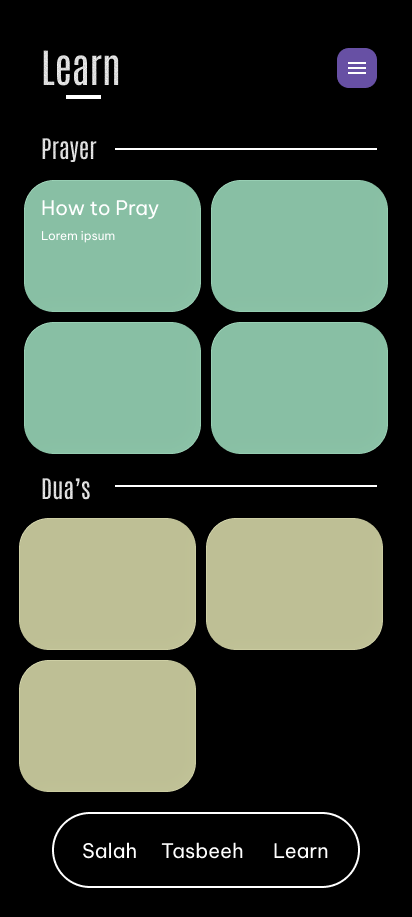
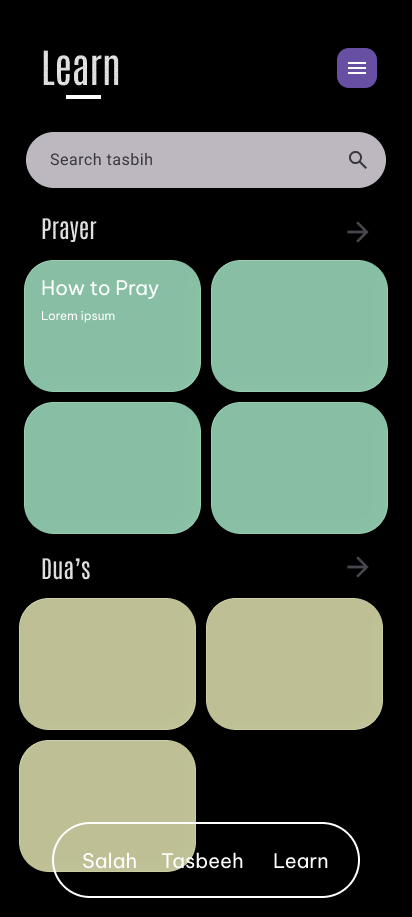
UI Refinements: Rakat picker width, Tasbeeh cards styling and color palette, AppBar offset and padding

diff --git a/app/src/main/java/com/kaizen/khushu/ui/screens/tasbeeh/TasbeehColors.kt b/app/src/main/java/com/kaizen/khushu/ui/screens/tasbeeh/TasbeehColors.kt
@@ -2,11 +2,12 @@ package com.kaizen.khushu.ui.screens.tasbeeh
 
 import androidx.compose.ui.graphics.Color
 
-val TasbeehPastelColors = listOf(
-    Color(0xFFC4A882), // warm tan
-    Color(0xFF9BBF9E), // sage green
-    Color(0xFF7AAFB8), // muted teal
-    Color(0xFF8DA3B8), // blue-grey
-    Color(0xFFA898B8), // mauve/lilac
-    Color(0xFFB89898), // dusty rose
-)
+val TasbeehPastelColors =
+        listOf(
+                Color(0xFFD4AF37), // Metallic Gold - classic, rich contrast
+                Color(0xFF2E5A4E), // Deep Emerald - serene, culturally resonant
+                Color(0xFF4A5568), // Steel Slate - neutral, highly structural
+                Color(0xFF6B4C7A), // Muted Amethyst - deep, reflective
+                Color(0xFF8B5A4B), // Burnished Terracotta - warm, grounding
+                Color(0xFF3B4D61) // Twilight Blue - calming, endless depth
+        )

diff --git a/app/src/main/java/com/kaizen/khushu/ui/screens/tasbeeh/TasbeehScreen.kt b/app/src/main/java/com/kaizen/khushu/ui/screens/tasbeeh/TasbeehScreen.kt
@@ -94,7 +94,7 @@ fun TasbeehScreen(
                 SearchBar(
                     query = query,
                     onQueryChange = { query = it },
-                    modifier = Modifier.padding(bottom = 8.dp),
+                    modifier = Modifier.padding(top = 16.dp, bottom = 8.dp),
                 )
             }
 
@@ -247,9 +247,11 @@ private fun CollectionCard(
             if (!collection.title.isNullOrBlank()) {
                 Text(
                     text = collection.title,
-                    style = MaterialTheme.typography.bodyMedium,
+                    style = MaterialTheme.typography.titleMedium,
                     fontWeight = FontWeight.Bold,
                     color = Color.White,
+                    maxLines = 1,
+                    overflow = TextOverflow.Ellipsis,
                 )
                 Spacer(Modifier.height(6.dp))
             }
@@ -262,16 +264,17 @@ private fun CollectionCard(
                 ) {
                     Text(
                         text = item.name,
-                        style = MaterialTheme.typography.bodySmall,
+                        style = MaterialTheme.typography.bodyLarge,
                         color = Color.White,
                         maxLines = 1,
                         overflow = TextOverflow.Ellipsis,
-                        modifier = Modifier.weight(1f),
+                        modifier = Modifier.weight(1f).padding(end = 4.dp),
                     )
                     Text(
                         text = item.targetCount.toString(),
-                        style = MaterialTheme.typography.bodySmall,
+                        style = MaterialTheme.typography.bodyLarge,
                         color = Color.White,
+                        fontWeight = FontWeight.Medium,
                     )
                 }
             }
@@ -279,7 +282,7 @@ private fun CollectionCard(
             if (collection.items.size > 3) {
                 Text(
                     text = "...",
-                    style = MaterialTheme.typography.bodySmall,
+                    style = MaterialTheme.typography.bodyLarge,
                     color = Color.White.copy(alpha = 0.6f),
                 )
             }

diff --git a/app/src/main/java/com/kaizen/khushu/ui/screens/tasbeeh/TasbeehViewModel.kt b/app/src/main/java/com/kaizen/khushu/ui/screens/tasbeeh/TasbeehViewModel.kt
@@ -16,6 +16,18 @@ class TasbeehViewModel(private val dao: TasbeehDao) : ViewModel() {
     init {
         viewModelScope.launch {
             if (dao.count() == 0) seedDefaults()
+            val currentCount = dao.count()
+            if (currentCount < 12) {
+                for (i in 1..(12 - currentCount)) {
+                    dao.insert(
+                        TasbeehCollection(
+                            title = "Dummy Card $i",
+                            colorInt = TasbeehPastelColors[i % TasbeehPastelColors.size].toArgb(),
+                            items = listOf(DhikrItem("Test Dhikr", 33))
+                        )
+                    )
+                }
+            }
         }
     }
 

diff --git a/app/src/main/java/com/kaizen/khushu/ui/components/KhushuAppBar.kt b/app/src/main/java/com/kaizen/khushu/ui/components/KhushuAppBar.kt
@@ -8,6 +8,8 @@ import androidx.compose.foundation.layout.Column
 import androidx.compose.foundation.layout.Spacer
 import androidx.compose.foundation.layout.WindowInsets
 import androidx.compose.foundation.layout.height
+import androidx.compose.foundation.layout.offset
+import androidx.compose.foundation.layout.padding
 import androidx.compose.foundation.layout.size
 import androidx.compose.foundation.layout.width
 import androidx.compose.foundation.layout.wrapContentWidth
@@ -39,8 +41,9 @@ fun KhushuAppBar(
     TopAppBar(
         title = {
             Column(
-                modifier = Modifier.wrapContentWidth(),
+                modifier = Modifier.wrapContentWidth().offset(x = (-8).dp),
                 horizontalAlignment = Alignment.CenterHorizontally,
+
             ) {
                 Text(
                     text = title,
@@ -78,12 +81,13 @@ fun KhushuAppBar(
                 )
             }
         },
-        windowInsets = WindowInsets(0),
+//        windowInsets = WindowInsets(0),
+        windowInsets = TopAppBarDefaults.windowInsets,
         colors = TopAppBarDefaults.topAppBarColors(
             containerColor = Color.Black,
             titleContentColor = Color.White,
             actionIconContentColor = Color.White,
         ),
-        modifier = modifier,
+        modifier = modifier.padding(top = 12.dp),
     )
 }

diff --git a/app/src/main/java/com/kaizen/khushu/MainActivity.kt b/app/src/main/java/com/kaizen/khushu/MainActivity.kt
@@ -11,7 +11,6 @@ import androidx.compose.animation.fadeOut
 import androidx.compose.animation.scaleIn
 import androidx.compose.animation.scaleOut
 import androidx.compose.foundation.background
-import androidx.compose.foundation.isSystemInDarkTheme
 import androidx.compose.foundation.layout.Box
 import androidx.compose.foundation.layout.Column
 import androidx.compose.foundation.layout.PaddingValues
@@ -81,13 +80,11 @@ private fun KhushuApp() {
     var showSettingsSheet by remember { mutableStateOf(false) }
     val hazeState = remember { HazeState() }
 
-    // Adaptive status bar icons: light on dark theme, dark on light theme
-    val darkTheme = isSystemInDarkTheme()
     val view = LocalView.current
     if (!view.isInEditMode) {
         SideEffect {
             val window = (view.context as Activity).window
-            WindowCompat.getInsetsController(window, view).isAppearanceLightStatusBars = !darkTheme
+            WindowCompat.getInsetsController(window, view).isAppearanceLightStatusBars = false
         }
     }
 
@@ -113,7 +110,7 @@ private fun KhushuApp() {
                 onSettingsClick = { showSettingsSheet = true },
                 modifier = Modifier
                     .statusBarsPadding()
-                    .padding(start = 20.dp, end = 20.dp, bottom = 16.dp),
+                    .padding(start = 20.dp, end = 20.dp)
             )
 
             Box(

diff --git a/app/src/main/java/com/kaizen/khushu/ui/screens/salah/SalahPickerScreen.kt b/app/src/main/java/com/kaizen/khushu/ui/screens/salah/SalahPickerScreen.kt
@@ -9,8 +9,8 @@ import androidx.compose.foundation.layout.Spacer
 import androidx.compose.foundation.layout.fillMaxSize
 import androidx.compose.foundation.layout.height
 import androidx.compose.foundation.layout.navigationBarsPadding
+import androidx.compose.foundation.layout.offset
 import androidx.compose.foundation.layout.padding
-import androidx.compose.foundation.layout.statusBarsPadding
 import androidx.compose.ui.unit.Dp
 import androidx.compose.material3.MaterialTheme
 import androidx.compose.material3.Text
@@ -38,7 +38,6 @@ fun SalahPickerScreen(
     Box(
         modifier = modifier
             .fillMaxSize()
-            .statusBarsPadding()
             .navigationBarsPadding()
             .padding(bottom = navBarClearance)
             .clickable(
@@ -51,6 +50,7 @@ fun SalahPickerScreen(
         Column(
             horizontalAlignment = Alignment.CenterHorizontally,
             verticalArrangement = Arrangement.Center,
+            modifier = Modifier.offset(y = (-35).dp),  // ← adjust this value
         ) {
             RakatPicker(
                 selectedRakat = selectedRakat,

diff --git a/app/src/main/java/com/kaizen/khushu/ui/screens/salah/RakatPicker.kt b/app/src/main/java/com/kaizen/khushu/ui/screens/salah/RakatPicker.kt
@@ -166,7 +166,7 @@ fun RakatPicker(
     ) {
         LazyColumn(
                 state = lazyListState,
-                modifier = Modifier.width(140.dp).height(ITEM_HEIGHT * 3).nestedScroll(connection),
+                modifier = Modifier.width(180.dp).height(ITEM_HEIGHT * 3).nestedScroll(connection),
                 contentPadding = PaddingValues(vertical = ITEM_HEIGHT),
                 flingBehavior = rememberSnapFlingBehavior(lazyListState),
                 userScrollEnabled = true,
@@ -180,6 +180,7 @@ fun RakatPicker(
                             text = rakat.toString(),
                             style = BASE_TEXT_STYLE,
                             color = Color.White,
+                            softWrap = false,
                             modifier =
                                     Modifier.wrapContentHeight(unbounded = true).graphicsLayer {
                                         // All layoutInfo reads are deferred to draw phase

diff --git a/app/src/main/java/com/kaizen/khushu/ui/screens/learn/LearnScreen.kt b/app/src/main/java/com/kaizen/khushu/ui/screens/learn/LearnScreen.kt
@@ -51,7 +51,7 @@ fun LearnScreen(
                 SearchBar(
                     query = query,
                     onQueryChange = { query = it },
-                    modifier = Modifier.padding(bottom = 8.dp),
+                    modifier = Modifier.padding(top = 16.dp, bottom = 8.dp),
                 )
             }
         }